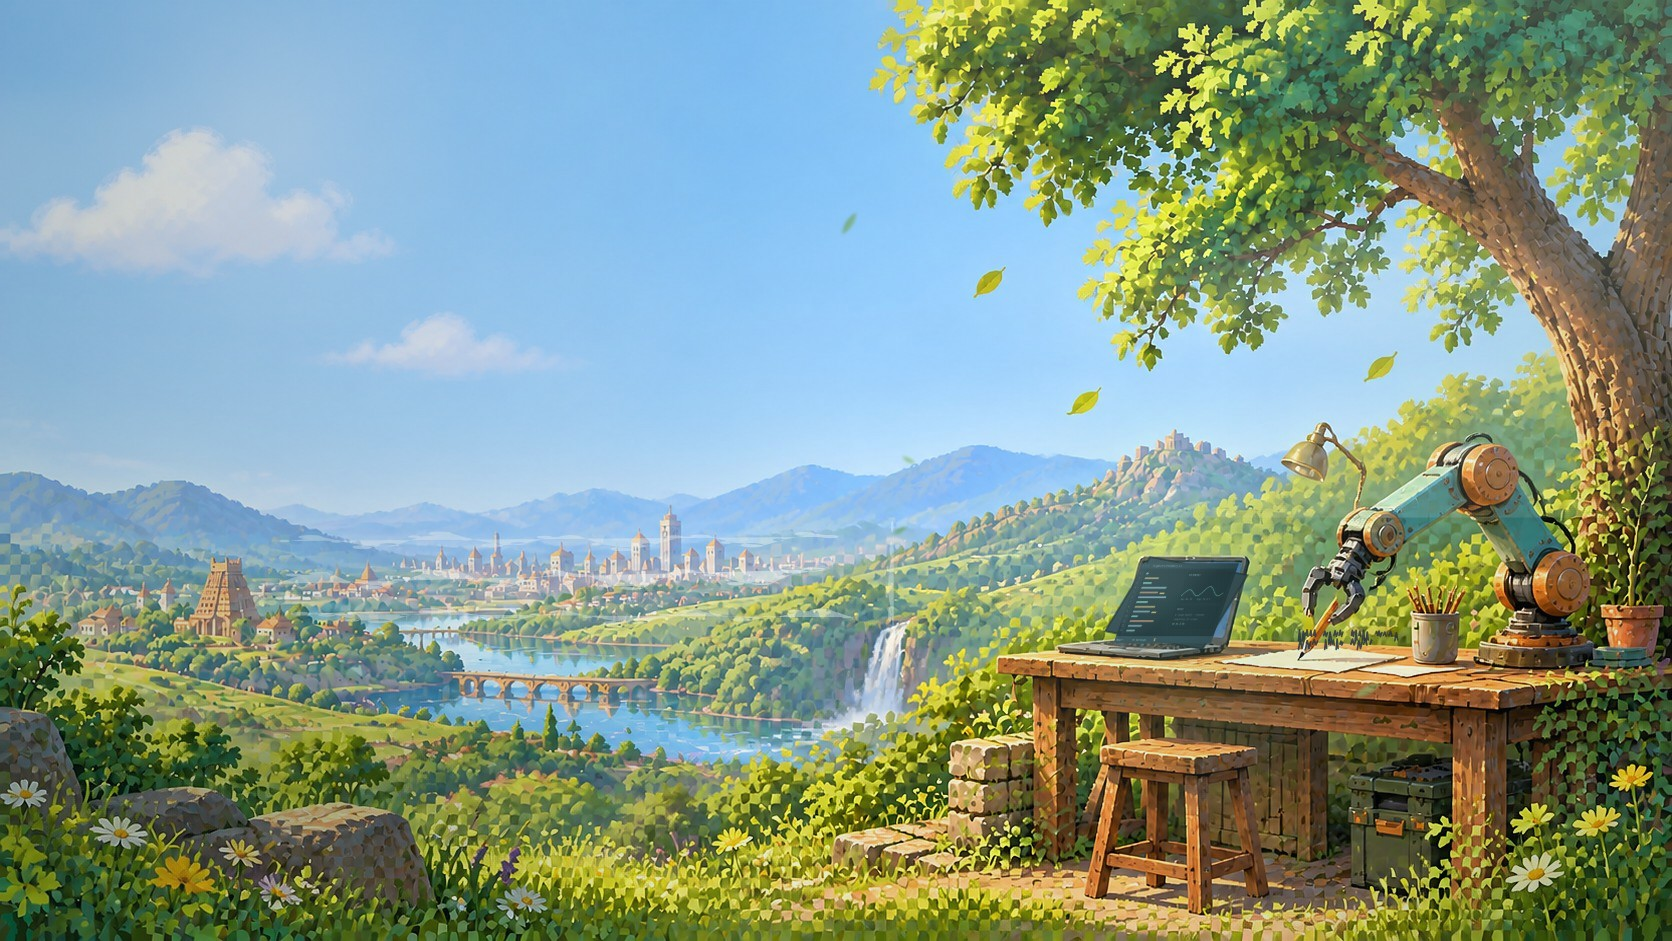
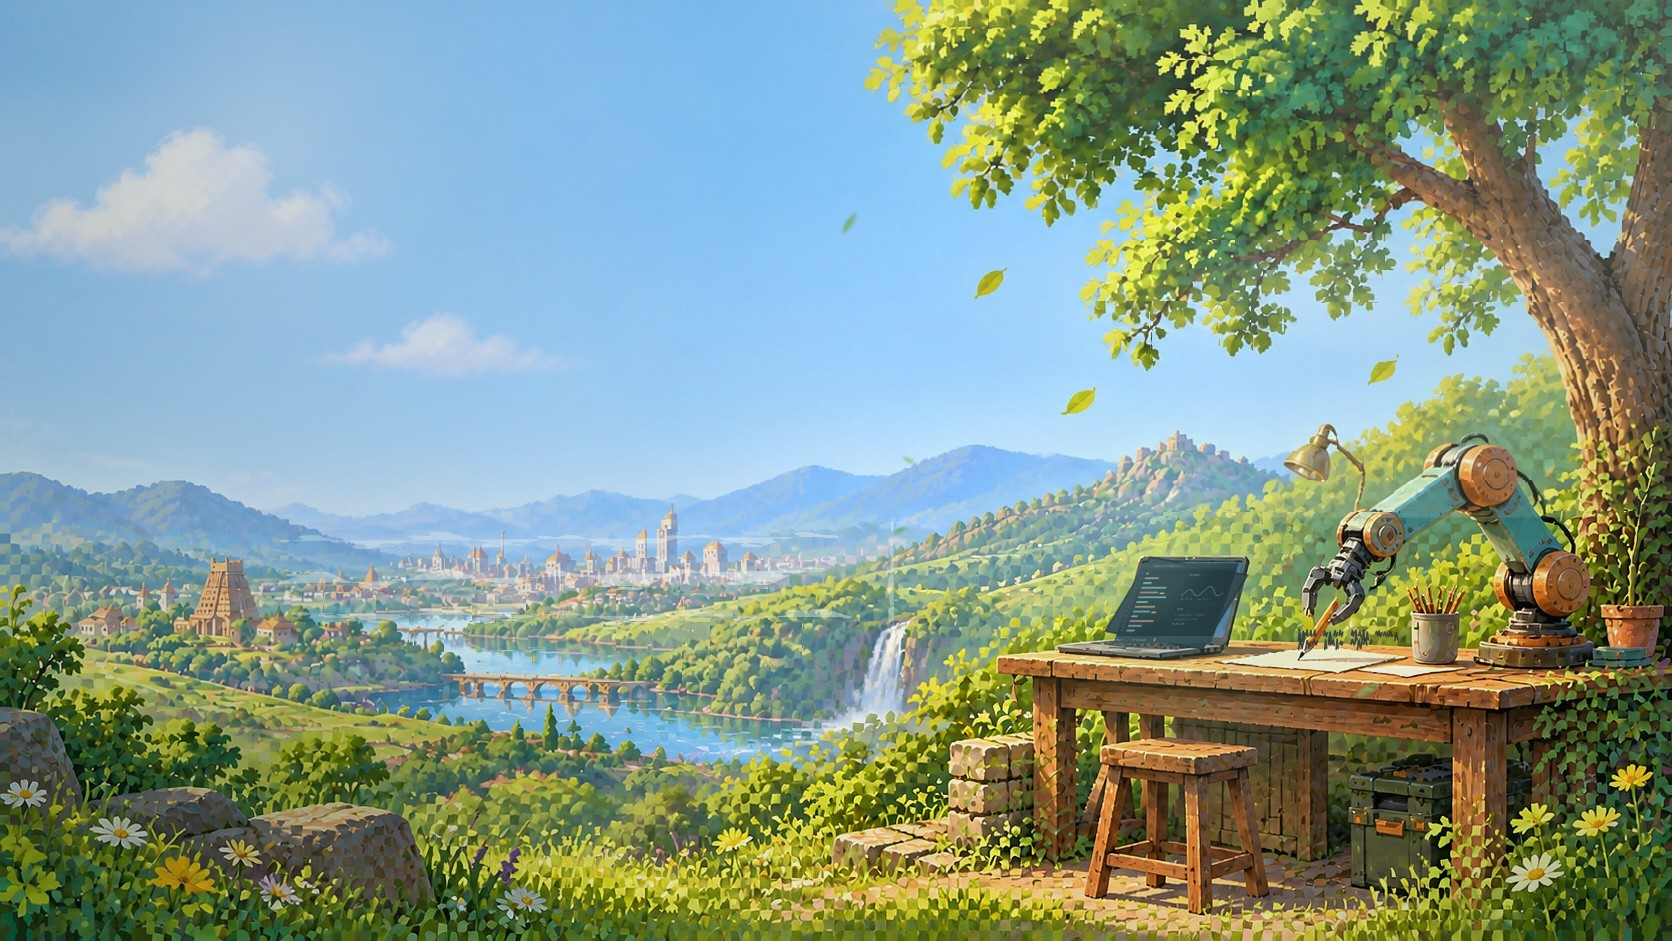
feat: animate painted hero background layers

Changed region(s): [[0.4976, 0.0, 0.9952, 0.5547], [0.1555, 0.5547, 0.5287, 0.7396], [0.622, 0.4006, 0.6531, 0.4623]]

diff --git a/README.md b/README.md
@@ -4,7 +4,7 @@ Personal portfolio for Nicola Destro: aerospace software, local AI systems, and 
 
 ## Stack
 
-- Astro static output with an original painted hero and a Canvas 2D motion layer (drifting mist, sun bloom, cloud shadows, stream sparkle, canopy wind light).
+- Astro static output with an original painted hero and a Canvas 2D motion layer (drifting mist, sun bloom, cloud shadows, stream sparkle, canopy wind light, and soft pixel displacement across the painted canopy/sky/water).
 - The hero painting is generated with the free, keyless Pollinations endpoint and exported at 2048px by `tools/fetch_backdrop.py`; the no-JS poster is rendered from the live scene by `tools/make_poster.py`. Both assets live in `public/art/`.
 - Only one raster ships in the hero (the painting). Everything animated on top is vector or gradient work drawn at device resolution, so it stays sharp on any display.
 - Markdown posts in `src/content/posts/` rendered to `/writing/<slug>.html`.
